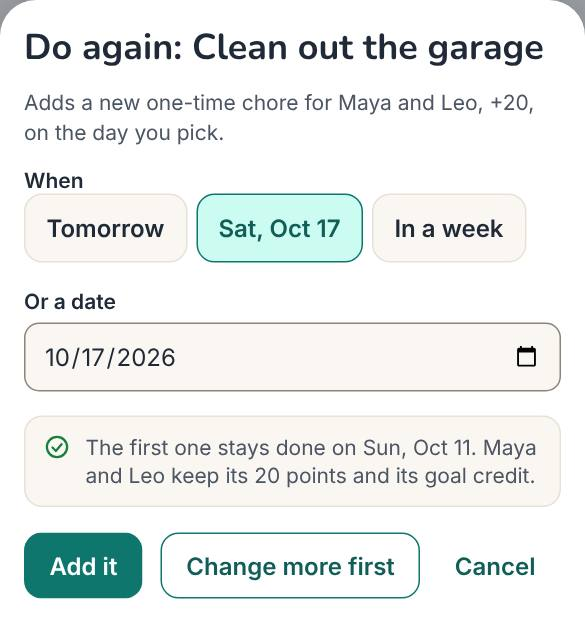
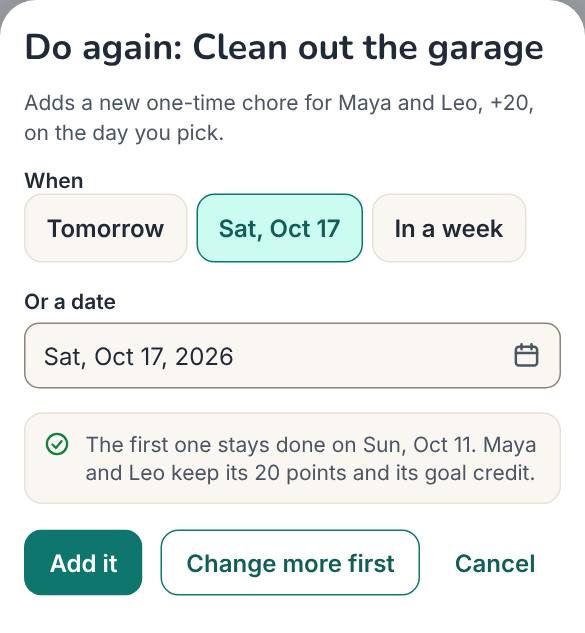
[CHR-23-a] WP-96: Do again's date written as the mockup writes it ("Sat, Oct 17, 2026")
Found while checking the built screens against the mockup: Do again's "Or a date" showed the
browser's own "10/17/2026". It now uses the app's written-date field (DatePick, D-128), as the goal
form does, and the quick dates set it. The UI test reads the words, and the guide's picture is
retaken.

Claude-Session: https://claude.ai/code/session_01DmtnyBw1uycMAqzX1NDBFt

diff --git a/apps/web/app/(admin)/admin/chores/do-again.tsx b/apps/web/app/(admin)/admin/chores/do-again.tsx
@@ -1,6 +1,6 @@
 'use client';
 
-import { Button, Icon } from '@familywise/ui';
+import { Button, DatePick, Icon } from '@familywise/ui';
 import Link from 'next/link';
 import { useEffect, useRef, useState } from 'react';
 import type { Outcome } from '@/lib/chore-sections';
@@ -39,6 +39,8 @@ export function DoAgainSheet({
 }) {
   const [date, setDate] = useState(choices[1]?.date ?? choices[0]!.date);
   const box = useRef<HTMLDivElement>(null);
+  const field = useRef<HTMLInputElement | null>(null);
+  const first = useRef(date).current;
   useEffect(() => box.current?.focus(), []);
   const what = kind === 'task' ? 'task' : 'chore';
   const kept =
@@ -79,24 +81,32 @@ export function DoAgainSheet({
                     name="pick"
                     value={c.date}
                     checked={date === c.date}
-                    onChange={() => setDate(c.date)}
+                    onChange={() => {
+                      setDate(c.date);
+                      if (field.current) field.current.value = c.date;
+                    }}
                   />
                   {c.label}
                 </label>
               ))}
             </div>
           </fieldset>
-          <label className="fw-field">
-            <span className="fw-field__label">Or a date</span>
-            <input
-              className="fw-input"
+          {/* The date in words, as the mockup writes it (D-128): "Sat, Oct 17, 2026". */}
+          <div className="fw-field">
+            <span className="fw-field__label" aria-hidden="true">
+              Or a date
+            </span>
+            <DatePick
               type="date"
               name="on"
-              required
+              label="Or a date"
               value={date}
-              onChange={(e) => setDate(e.target.value)}
+              initial={first}
+              onValue={setDate}
+              required
+              inputRef={field}
             />
-          </label>
+          </div>
           <div className="fw-keep">
             <Icon name="check-circle" size={18} />
             <span>{kept}</span>

diff --git a/e2e/ui/chores.spec.ts b/e2e/ui/chores.spec.ts
@@ -286,8 +286,11 @@ test.describe('Chores in four sections', () => {
     const when = sheet.getByRole('group', { name: 'When' });
     await expect(when.getByRole('radio', { name: 'Sat, Oct 17' })).toBeChecked();
     await expect(sheet.getByLabel('Or a date')).toHaveValue('2026-10-17');
+    await expect(sheet.locator('.fw-pick__words')).toHaveText('Sat, Oct 17, 2026');
     await when.getByText('Tomorrow').click();
     await expect(sheet.getByLabel('Or a date')).toHaveValue('2026-10-15');
+    // Written as the mockup writes it, over the real date field (D-128).
+    await expect(sheet.locator('.fw-pick__words')).toHaveText('Thu, Oct 15, 2026');
     await expect(sheet).toContainText(
       'The first one stays done on Sun, Oct 11. Maya and Leo keep its 20 points and its goal credit.',
     );
